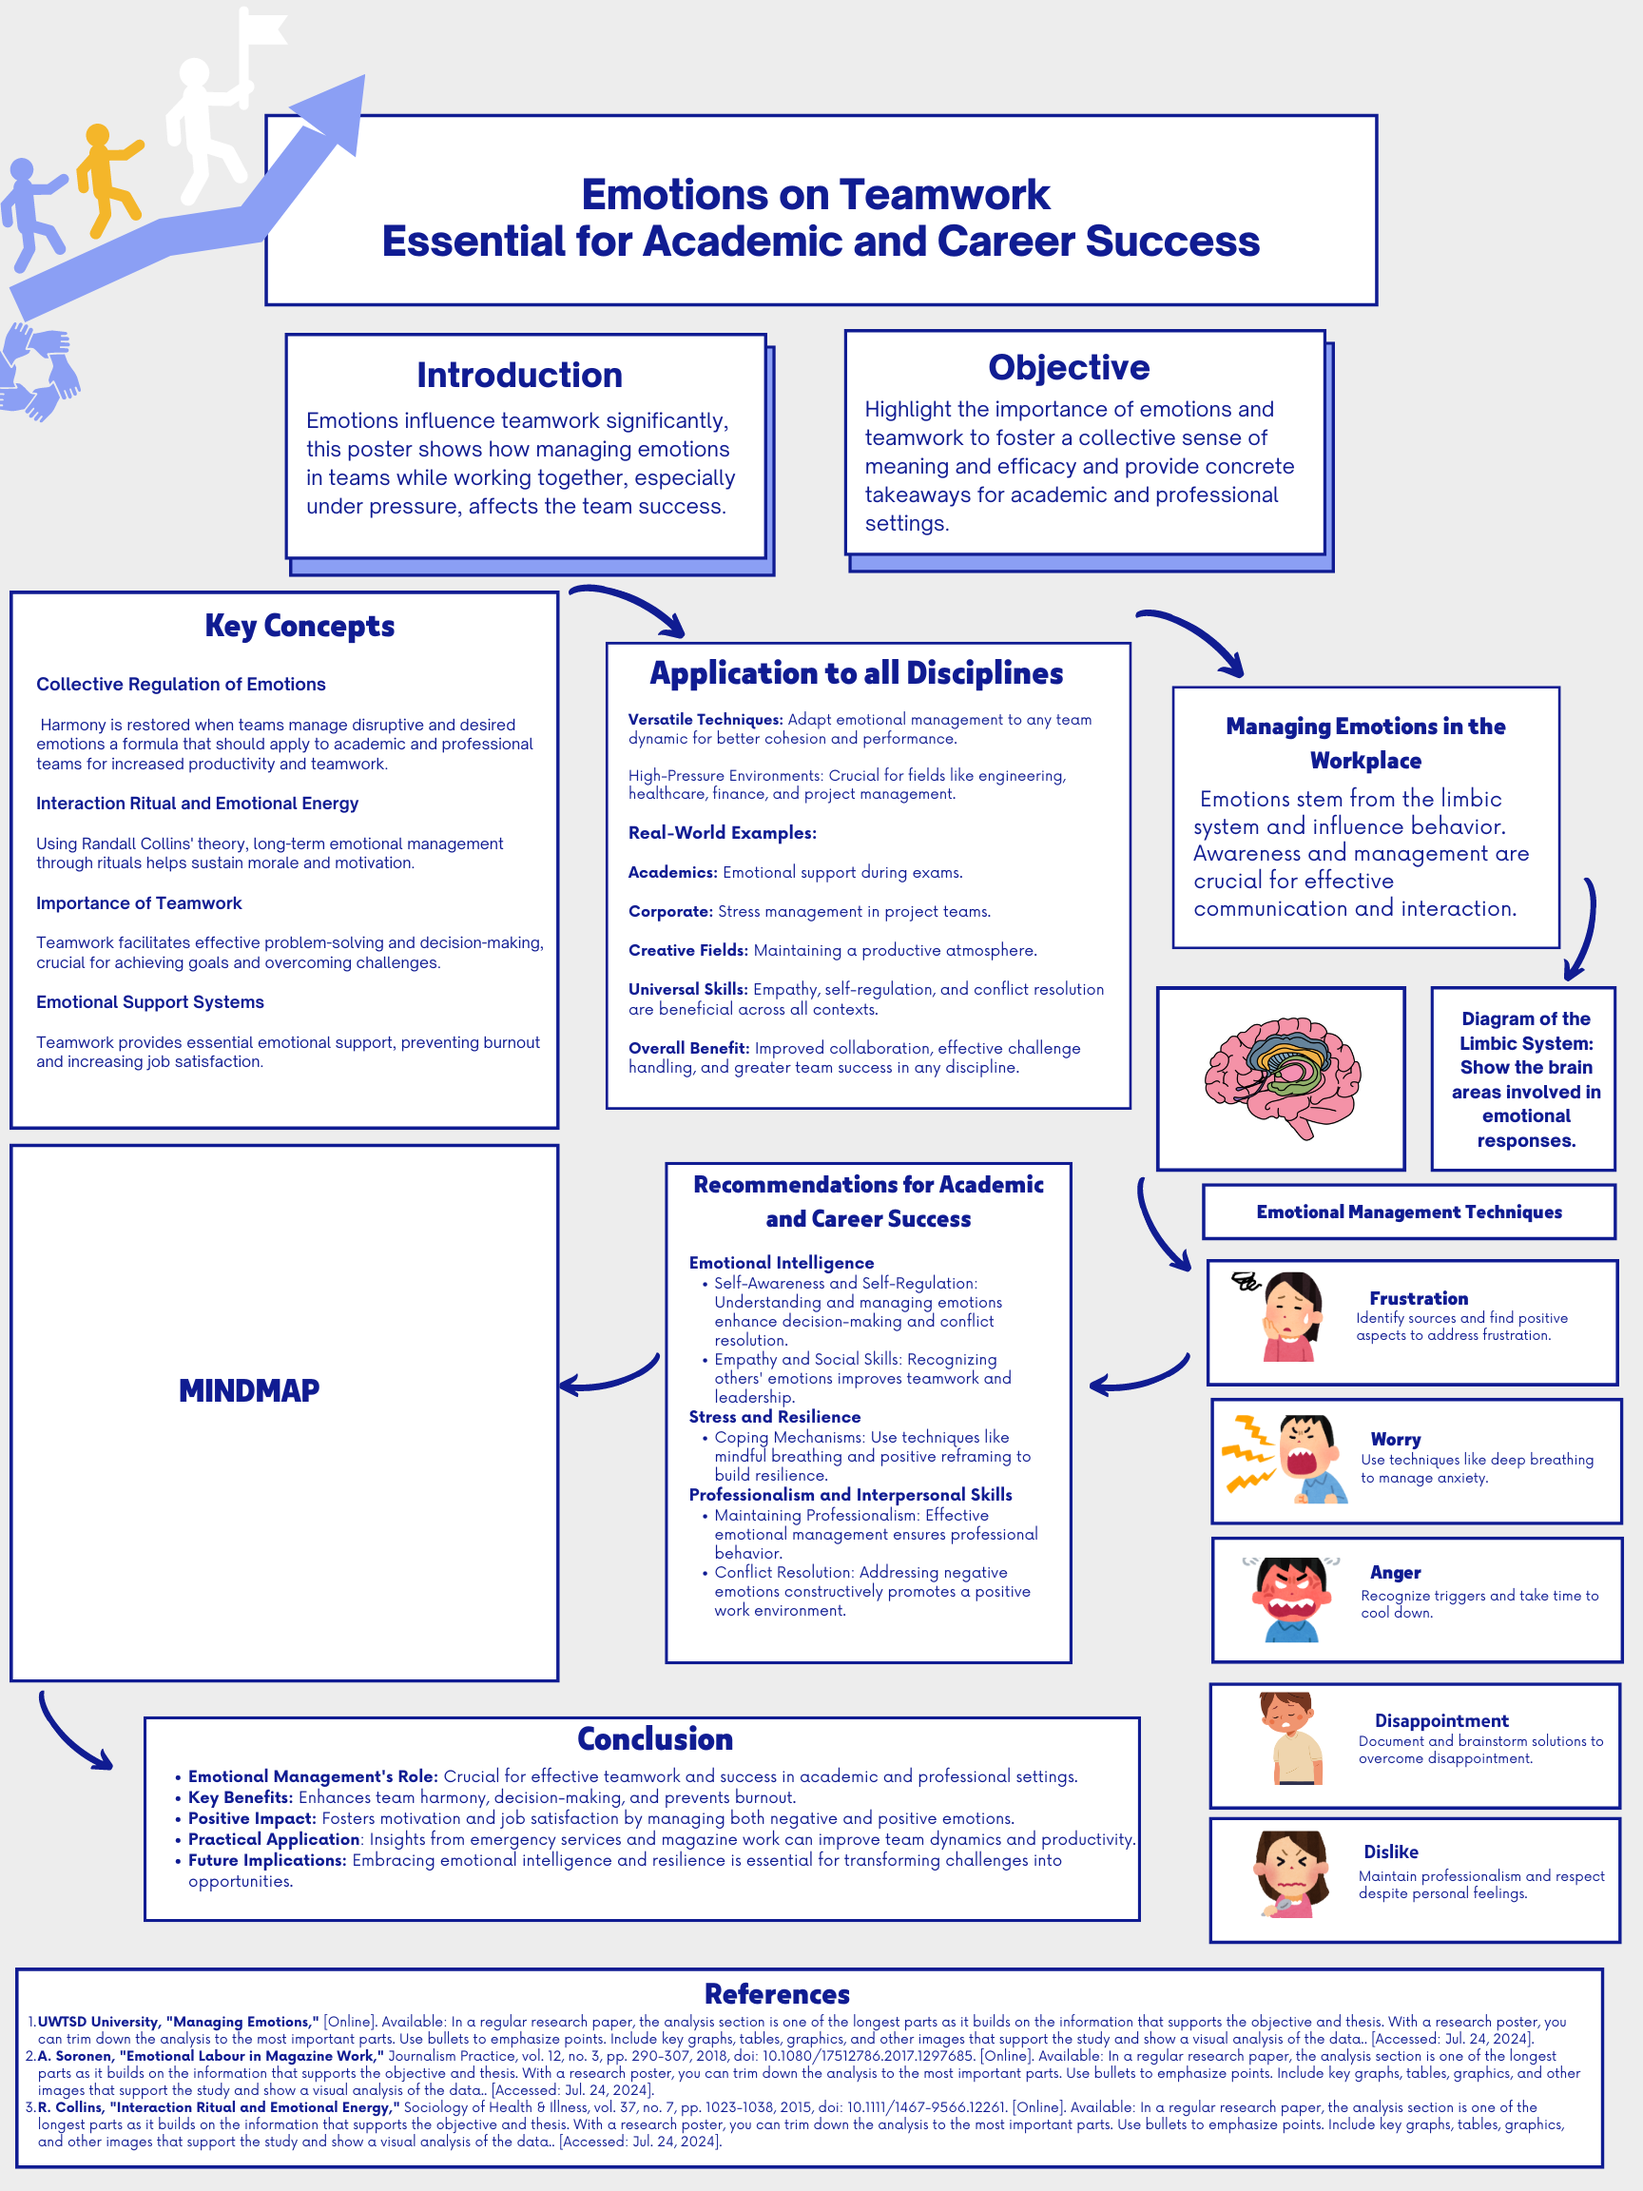
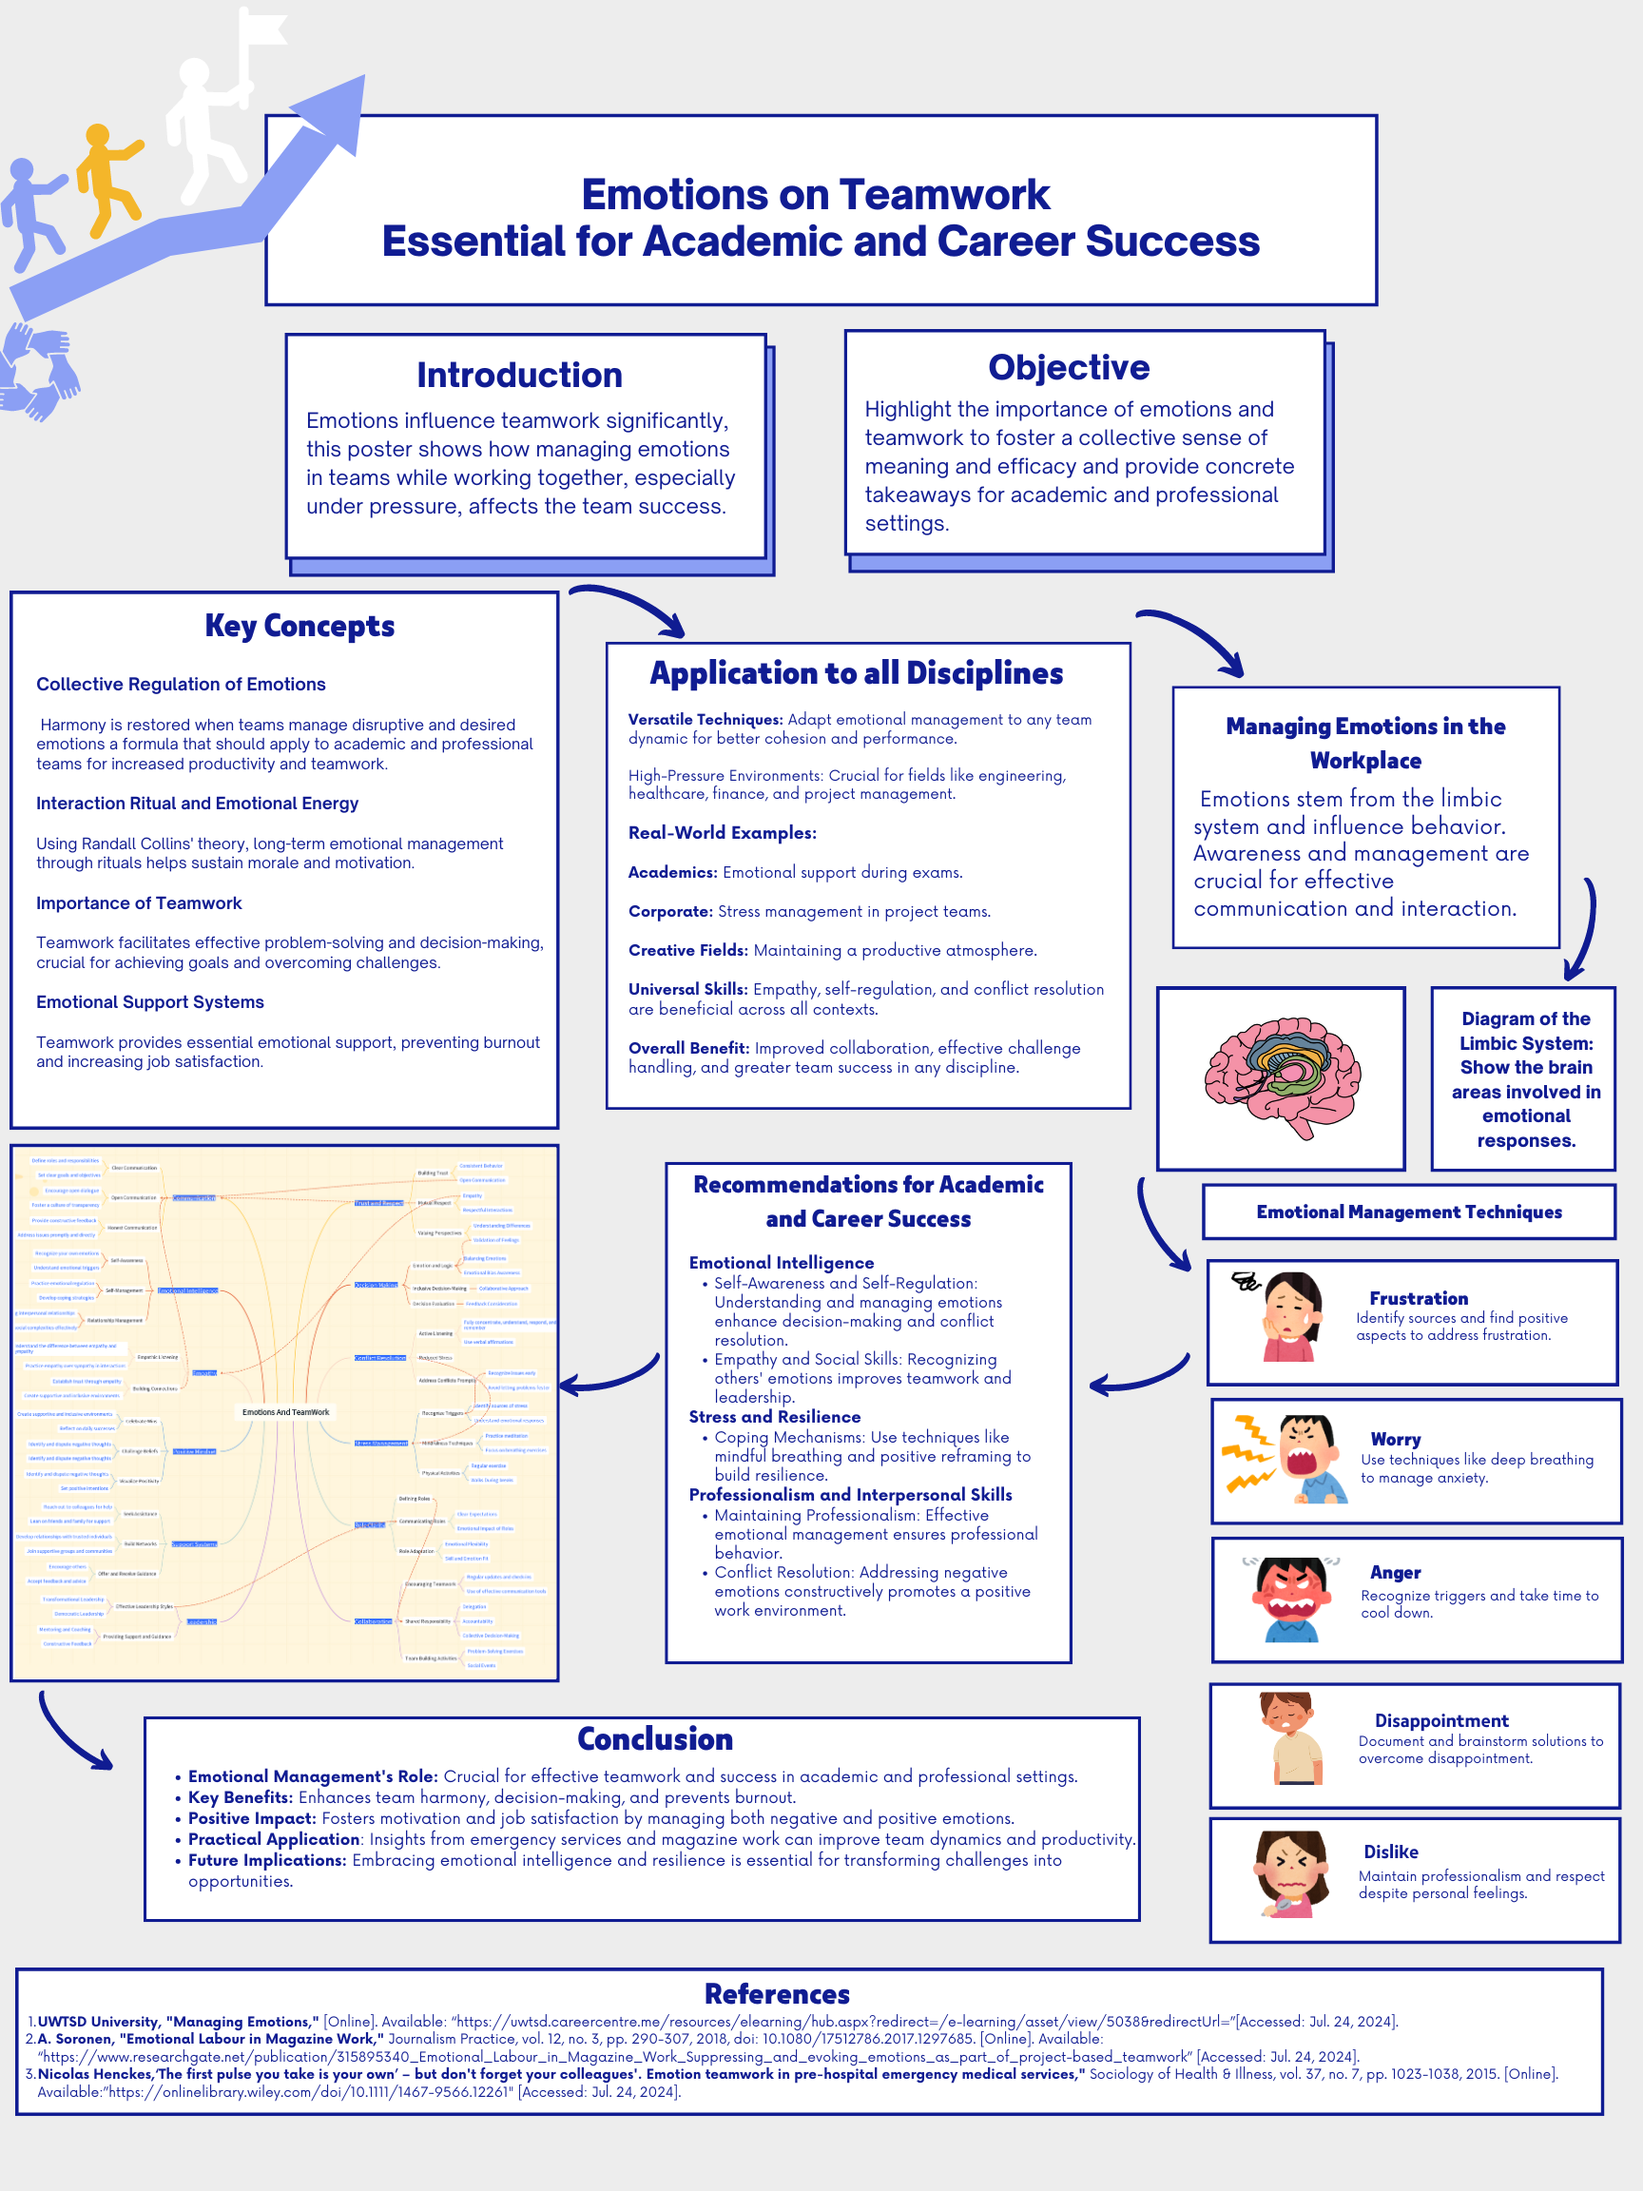
poster done

Changed region(s): [[0.0, 0.5, 0.3438, 0.7812], [0.0, 0.9062, 0.9688, 1.0]]

diff --git a/src/pages/LDEApages/Task3.jsx b/src/pages/LDEApages/Task3.jsx
@@ -1,22 +1,138 @@
 import {motion} from "framer-motion"
+import Paragraph from "../../components/Paragraph"
+import References from "../../components/References"
+import AssessmentFooter from "../../components/AssesmentFooter";
 
 
 export default function Task3() {
+    const references = [
+        {
+          text: "J. Stein, 'Using the Stages of Team Development,' Human Resources at MIT",
+          link: "https://hr.mit.edu/learning-topics/teams/articles/stages-development#:~:text=During%20the%20Norming%20stage%20of,reality%20of%20the%20team's%20experience",
+          accessDate: ""
+        },
+        {
+          text: "M. Vich and M. Kim, 'Construction and Application of Radical Candor: Efficiency of Criticism at Work,' Central European Business Review, vol. 5, no. 4, pp. 11-22, Jan. 2016.",
+          link: "https://www.researchgate.net/publication/313680390_Construction_and_Application_of_Radical_Candor_Efficiency_of_Criticism_at_Work",
+          accessDate: ""
+        },
+        {
+          text: "E. Lockhart, 'Spinach in Your Teeth,' Radical Candor,",
+          link: "https://www.radicalcandor.com/blog/video-spinach-teeth/",
+          accessDate: "25-Jun-2024"
+        },
+      ];
+      const footerLinks = [
+        { text: 'Task2', href: '/LDEAssesment/task2' },
+        { text: 'LDEAssesment Home', href: '/LDEAssesment' },
+        { text: 'Task4', href: '/LDEAssesment/task4' },
+      ];
     return (
-    <div className="h-[100%] w-full flex flex-col items-center justify-start rounded:[20px] lg:rounded-[50px] gap-10 overflow-y-scroll scrollbar-hide">
-        <motion.h1 className="lg:text-[4rem] text-[3rem] font-Jost -bold relative border-b-8 border-blueBackground text-center"
+    <div className="h-[100%] w-full flex flex-col items-center justify-start rounded-b-[20px] lg:rounded-[50px] overflow-y-scroll scrollbar-hide gap-8 pb-8">
+        <motion.h1 className="lg:text-[2rem] text-[1.5rem] font-Jost  relative border-b-8 border-blueBackground text-center p-2"
             initial={{ opacity: 0 }}
             animate={{ opacity: 1 }}
             transition={{ 
               duration: 0.7, 
           }}>
-            Task 3
+            Task3 - 
+            Automatic Referencing tool 
         </motion.h1>
-        <div className="w-full h-auto flex justify-center flex-wrap gap-5 p-5">
+        <motion.h2 className="lg:text-[1.4rem] text-[1.2rem] font-Jost font-bold text-center p-2"
+            initial={{ opacity: 0 }}
+            animate={{ opacity: 1 }}
+            transition={{ 
+              duration: 0.7, 
+          }}>
+            Radical Candor In the Norming Phase 
+        </motion.h2>
+        <Paragraph>
+            The Norming phase is crucial in team development. In this phase individuals resolve conflicts, understand each other’s strengths and establish roles. Effective communication here can have a massive impact on the team's success. This text aims to explore how the Radical Candor approach can be used to enhance the Norming phase, addressing key dysfunctions and fostering a cohesive team environment. 
+        </Paragraph>
+        <motion.h2 className="lg:text-[1.4rem] text-[1.2rem] font-Jost font-bold text-center p-2"
+            initial={{ opacity: 0 }}
+            animate={{ opacity: 1 }}
+            transition={{ 
+              duration: 0.7, 
+          }}>
+            Characteristics of the Norming Phase
+        </motion.h2>
+        <Paragraph>
+            Understanding the key features of the norming phase is crucial to understanding how this helps increase team cohesion and productivity. During this phase, the team members start to make adjustments between expectations and the actual experience of being a part of the team. Such a resolution results in broader, more tolerant norms and expectations so that members can be themselves. They begin to see the different points of view and ways in which a diverse group is stronger than one with wrong-sound opinions. This leads to enabling members of the group to feel they belong as a whole because contributing with constructive criticism is much more practical [1] so that everyone can partake in the group unity.    
+        </Paragraph>
+        <motion.h2 className="lg:text-[1.4rem] text-[1.2rem] font-Jost font-bold text-center p-2"
+            initial={{ opacity: 0 }}
+            animate={{ opacity: 1 }}
+            transition={{ 
+              duration: 0.7, 
+          }}>
+            Addressing Dysfunctions in Teams with Radical Candor   
+        </motion.h2>
+        <Paragraph>
+             In the Norming phase, addressing team dysfunctions such as lack of commitment and avoidance of accountability is crucial. Radical Candor, is an effective strategy to tackle these issues furthermore it encourages direct and honest feedback, which helps in overcoming exaggerated politeness and “false kindness” often observed in teams [2]. 
+        </Paragraph>
+        <Paragraph>
+            Incorporating Radical Candor, teams can effectively address dysfunctions by ensuring open communication and constructive feedback enhancing commitment and accountability leading to a more resilient and high-performing team [2].
+        </Paragraph>
+        <motion.h2 className="lg:text-[1.4rem] text-[1.2rem] font-Jost font-bold text-center p-2"
+            initial={{ opacity: 0 }}
+            animate={{ opacity: 1 }}
+            transition={{ 
+              duration: 0.7, 
+          }}>
+            Application of Radical Candor in the Norming Phase: Spinach in Your Teeth   
+        </motion.h2>
+        <Paragraph>
 
-     
+            A practical example of Radical Candor is the "spinach in your teeth" scenario described by Russ Laraway, co-founder of Radical Candor LLC [3]. In a YouTube video presentation, Russ represents 4 ways of managing the situation: Radical Candor; Obnoxious Aggression; Ruinous Empathy; or Manipulative Insincerity.
+
+        </Paragraph>
+        <Paragraph>
+            
+            With Radical Candor, a co-worker might take the person aside and quietly, warmly say: ‘I just wanted to let you know you have a piece of spinach in your teeth’ calling attention to the dirty tooth in a way that neither humiliates nor creates long-term resentment. The essence of Radical Candor is challenging directly while caring personally, with the likely result that the problem gets solved and the relationship is not damaged [3].
+                
+        </Paragraph>
+        <Paragraph>
+            
+            Applying Radical Candor in the Norming phase ensures that feedback is given in a manner that supports personal and professional growth, fostering a more cohesive and high-functioning team as shown in the video previously mentioned [3].
+    
+        </Paragraph>
+        <motion.h2 className="lg:text-[1.4rem] text-[1.2rem] font-Jost font-bold text-center p-2"
+            initial={{ opacity: 0 }}
+            animate={{ opacity: 1 }}
+            transition={{ 
+              duration: 0.7, 
+          }}>
+            Summary  
+        </motion.h2>
+        <Paragraph>
+            The Norming phase is crucial in team development, characterized by resolving conflicts, understanding each other's strengths, and establishing clear roles. Good communication is vital to the success of Norming; indeed, Radical Candor helps this process by facilitating open and honest communication that is caring at the same time as shown in the  "spinach in your teeth" scenario.  
+        </Paragraph>
+        <motion.h2 className="lg:text-[1.4rem] text-[1.2rem] font-Jost font-bold text-center p-2 underline text-blueBackground"
+            initial={{ opacity: 0 }}
+            animate={{ opacity: 1 }}
+            transition={{ 
+              duration: 0.7, 
+          }}>
+             Refworks Practical Evidence  
+        </motion.h2>
+        <motion.h2 className="lg:text-[1.4rem] text-[1.2rem] font-Jost font-bold text-center p-2 underline text-blueBackground"
+            initial={{ opacity: 0 }}
+            animate={{ opacity: 1 }}
+            transition={{ 
+              duration: 0.7, 
+          }}>
+            References   
+        </motion.h2>
+        <Paragraph>
         
-        </div>
+            <References references={references} />
+
+        </Paragraph>
+       
+        <AssessmentFooter links={footerLinks} />
+        
+        
         </div>
     )
 }

diff --git a/src/pages/LDEApages/Task2.jsx b/src/pages/LDEApages/Task2.jsx
@@ -3,6 +3,7 @@ import Paragraph from "../../components/Paragraph"
 import References from "../../components/References"
 import AssessmentFooter from "../../components/AssesmentFooter";
 import poster from "../../assets/images/poster.png"
+import mindmap from "../../assets/images/mindmap.png"
 
 
 export default function Task2() {
@@ -15,17 +16,12 @@ export default function Task2() {
         {
           text: " A. Soronen, 'Emotional Labour in Magazine Work,' Journalism Practice, vol. 12, no. 3, pp. 290-307, 2018, doi: 10.1080/17512786.2017.1297685.",
           link: "https://www.researchgate.net/publication/315895340_Emotional_Labour_in_Magazine_Work_Suppressing_and_evoking_emotions_as_part_of_project-based_teamwork",
-          accessDate: "18-Jul-2024"
+          accessDate: "24-Jul-2024"
         },
         {
-          text: "University of London, Critical thinking and writing, in Critical Thinking Guide, pp. 1-4, 2020",
-          link: "https://studenthub.city.ac.uk/__data/assets/pdf_file/0011/372818/2.-Critical-thinking-guide_FINAL.pdf",
-          accessDate: "18-Jul-2024"
-        },
-        {
-          text: "‘The first pulse you take is your own’ – but don't forget your colleagues'. Emotion teamwork in pre-hospital emergency medical services, doi.org/10.1111/1467-9566.12261 ",
+          text: "Nicolas Henckes,‘The first pulse you take is your own’ – but don't forget your colleagues'. Emotion teamwork in pre-hospital emergency medical services, doi.org/10.1111/1467-9566.12261 ",
           link: "https://onlinelibrary.wiley.com/doi/10.1111/1467-9566.12261",
-          accessDate: "18-Jul-2024"
+          accessDate: "24-Jul-2024"
         }
       ];
 
@@ -78,7 +74,7 @@ export default function Task2() {
             Poster Link  
         </motion.h1>
         <Paragraph>
-            The ability to think critically is also an essential skill. 
+          Check the poster here <a href="https://1drv.ms/i/s!AvN9O2Ym8AXYbOcAOXAVgCRv37g?e=cDlgTv" className="bg-blueBackground text-white font-Jost text-lg py-2 px-4 rounded-md transition-colors duration-300 hover:bg-blue-700">Link To Poster</a>
         </Paragraph>
         <motion.h1 className="lg:text-[1.4rem] text-[1.2rem] font-Jost font-bold text-center p-2"
             initial={{ opacity: 0 }}
@@ -90,7 +86,7 @@ export default function Task2() {
         </motion.h1>
 
         <motion.img
-            src={poster}
+            src={mindmap}
             loading="lazy"
             initial={{ opacity: 0 }}
             alt="A3 Poster"
@@ -109,7 +105,7 @@ export default function Task2() {
         </motion.h1>
 
         <Paragraph>
-             Learning how to best manage time, think critically, and adapt during university will lead to 
+             Check the mind map here <a href="https://1drv.ms/i/s!AvN9O2Ym8AXYa11E900e54ljTvI?e=e2IXVZ" className="bg-blueBackground text-white font-Jost text-lg py-2 px-4 rounded-md transition-colors duration-300 hover:bg-blue-700">Link To Mindmap</a>
         </Paragraph>
         <motion.h1 className="lg:text-[1.4rem] text-[1.2rem] font-Jost font-bold text-center p-2 underline text-blueBackground"
             initial={{ opacity: 0 }}
